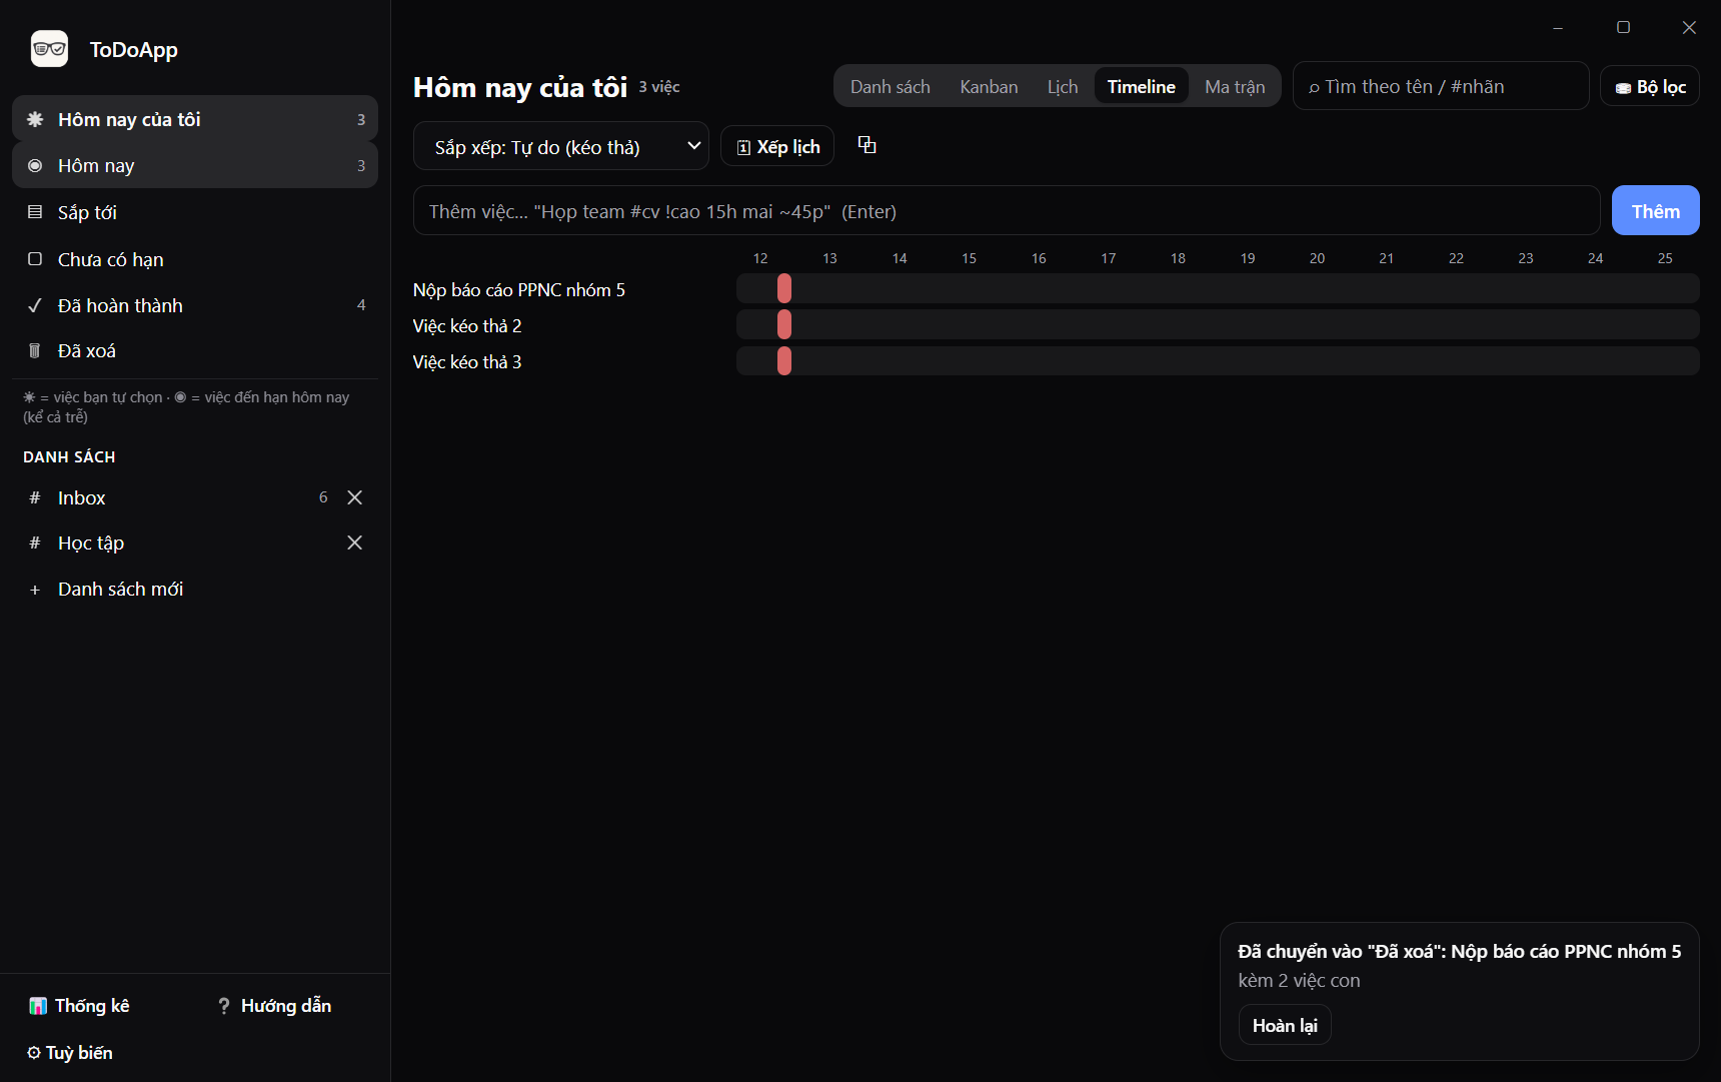
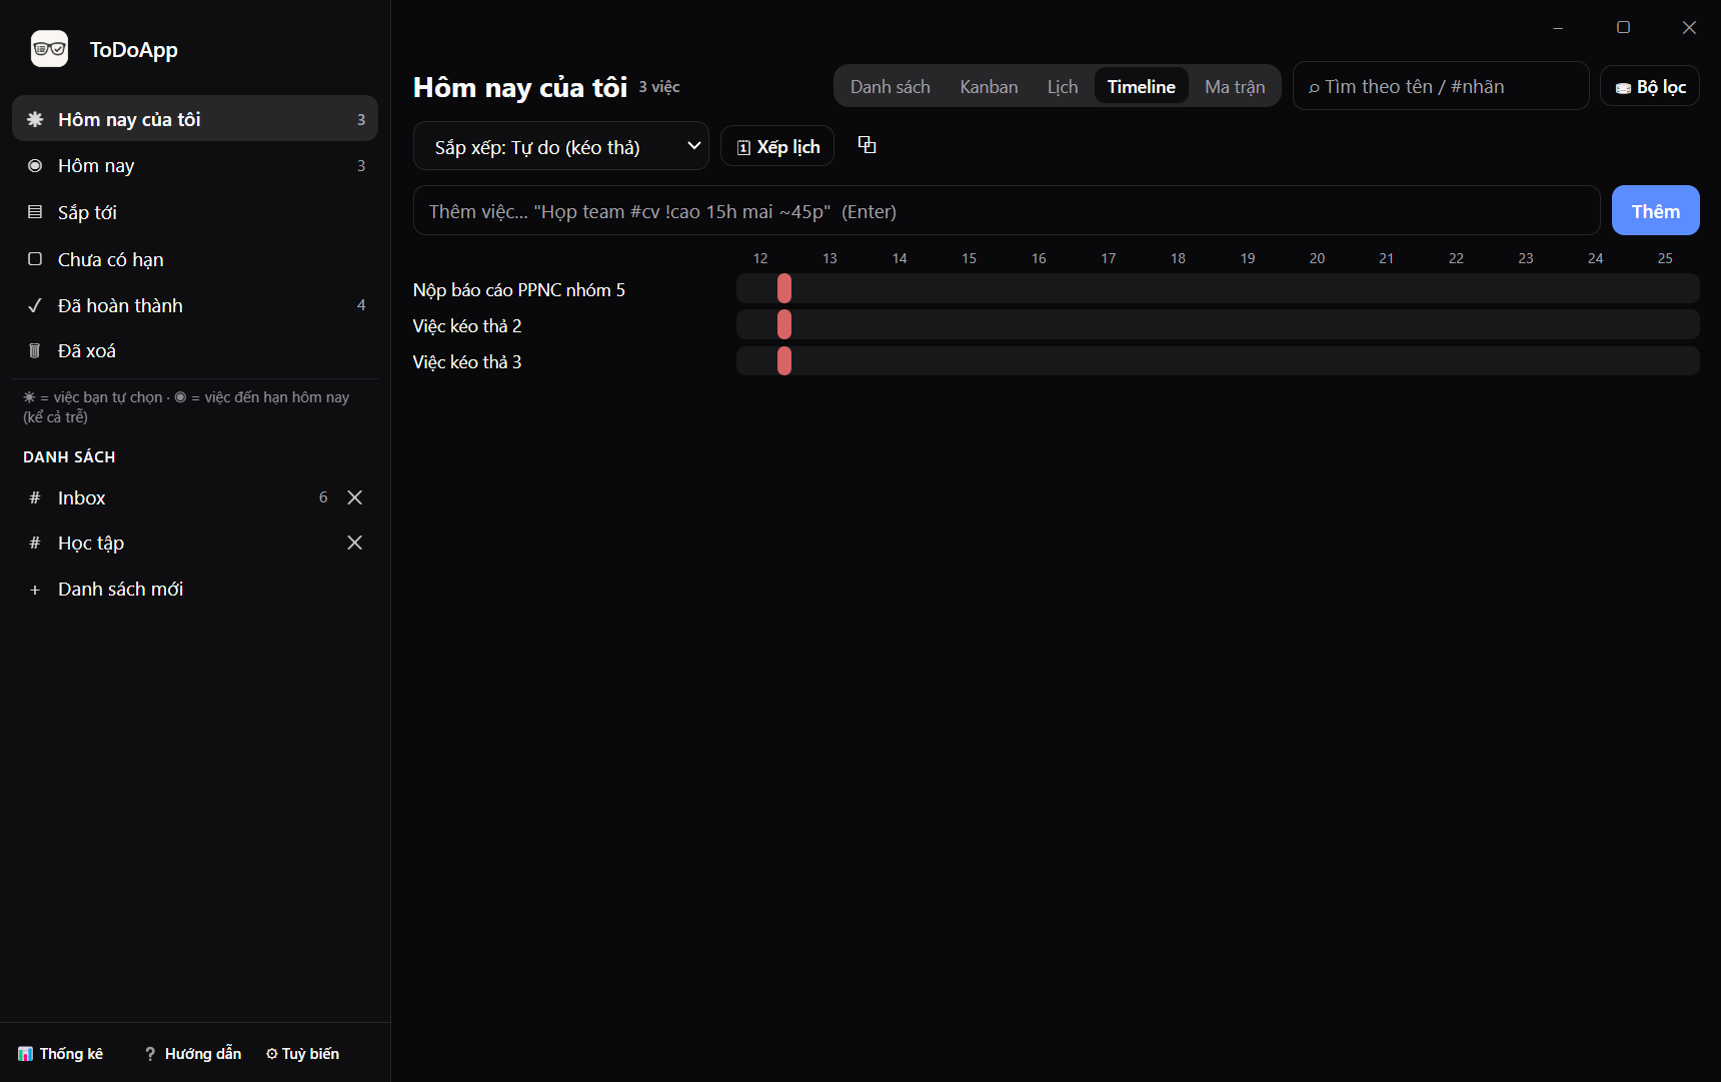
Gop 3 nut chan sidebar vao 1 hang ngang, thiet ke khung bao quanh tac gia/model/AI agent, them probe do that + on dinh hoa probe bo loc

diff --git a/lib/smoke.js b/lib/smoke.js
@@ -203,7 +203,18 @@ module.exports = function smoke() {
       if (!syncMain) errs.push('probe: thêm việc ở mini mà app chính không cập nhật (đồng bộ 1 chiều hỏng)');
       if (!syncMini) errs.push('probe: đổi ở app chính mà mini không cập nhật (đồng bộ chiều còn lại hỏng)');
 
-      // BẢNG LỌC: mở bằng nút -> có đủ ô chọn; chọn nhanh có tác dụng; có chip điều kiện đang bật
+      // BẢNG LỌC: mở bằng nút -> có đủ ô chọn; chọn nhanh có tác dụng; có chip điều kiện đang bật.
+      // Tự dựng dữ liệu cho mình: các probe trước có thể đã để danh sách rỗng -> n0 = 0
+      // thì "lọc nhanh có thu hẹp" không còn ý nghĩa (đây là lỗi của phép thử, không phải của app).
+      await mainWin.webContents.executeJavaScript(`(() => {
+        if (!T.view(db.tasks, ui.view).length) {
+          const base = db.tasks.find((x) => !x.parentId) || db.tasks[0];
+          const nt = { ...base, id: uid(), title: 'Việc cho bộ lọc', parentId: null, done: false, doneAt: null, stage: 'todo', myDay: ymd(new Date()), due: null };
+          db.tasks.push(nt); commit();
+        }
+        ui.view = 'myday'; ui.mode = 'list'; ui.openId = null; ui.q = ''; clearF(); render();
+      })()`);
+      await waitFor(mainWin, `!!document.querySelector('.body .row:not(.sub)')`);
       const filt = await mainWin.webContents.executeJavaScript(`(async () => {
         document.querySelector('.btn-filter').click();
         await new Promise((r) => setTimeout(r, 200));
@@ -703,6 +714,44 @@ module.exports = function smoke() {
       console.log('STATS bars=' + stat);
       await new Promise((r) => setTimeout(r, 250)); await shoot('stats');
       // HƯỚNG DẪN: nút kế bên Thống kê -> hộp thoại có Esc, phím tắt, gõ nhanh và TÊN TÁC GIẢ
+      // CHÂN SIDEBAR: Thống kê / Hướng dẫn / Tuỳ biến phải nằm GỌN trong 1 HÀNG NGANG,
+      // không tràn ra ngoài và không bị cắt chữ (đo thật, không đoán theo font-size)
+      const foot = await mainWin.webContents.executeJavaScript(`(() => {
+        const box = document.querySelector('.side-foot');
+        const btns = [...box.querySelectorAll('.btn')];
+        const b = box.getBoundingClientRect();
+        const rects = btns.map((x) => { const r = x.getBoundingClientRect(); return { t: x.textContent, x: Math.round(r.x), r: Math.round(r.right), y: Math.round(r.y), h: Math.round(r.height), clip: x.scrollWidth > x.clientWidth + 1 }; });
+        return { n: btns.length, rows: new Set(rects.map((r) => r.y)).size, over: rects.filter((r) => r.r > b.right + 1 || r.x < b.left - 1).map((r) => r.t), clipped: rects.filter((r) => r.clip).map((r) => r.t), rects, boxW: Math.round(b.width) };
+      })()`);
+      console.log('SIDE-FOOT ' + JSON.stringify(foot));
+      if (foot.n !== 3) errs.push('probe: chân sidebar thiếu nút (' + JSON.stringify(foot) + ')');
+      if (foot.rows !== 1) errs.push('probe: 3 nút chân sidebar không nằm trên 1 hàng ngang (rows=' + foot.rows + ')');
+      if (foot.over.length) errs.push('probe: nút chân sidebar tràn ra ngoài khung (' + JSON.stringify(foot.over) + ')');
+      if (foot.clipped.length) errs.push('probe: chữ nút chân sidebar bị cắt (' + JSON.stringify(foot.clipped) + ')');
+      // KHUNG TÁC GIẢ: có viền bao quanh + 3 ô (tác giả/model/AI agent)
+      const card = await mainWin.webContents.executeJavaScript(`(() => {
+        ui.modal = 'help'; render();
+        const a = document.querySelector('#helpModal .author');
+        if (!a) return { why: 'chưa có khung tác giả' };
+        const cs = getComputedStyle(a);
+        const items = [...a.querySelectorAll('.a-item')].map((x) => ({ k: x.querySelector('.k').textContent, v: x.querySelector('b').textContent, w: Math.round(x.getBoundingClientRect().width) }));
+        const r = a.getBoundingClientRect();
+        return {
+          items, border: cs.borderTopWidth, bg: cs.backgroundColor,
+          framed: parseFloat(cs.borderTopWidth) > 0 && cs.borderTopStyle !== 'none',
+          oneRow: new Set(items.map((x) => Math.round(x.w))).size === 1,
+          width: Math.round(r.width),
+        };
+      })()`);
+      console.log('AUTHOR-CARD ' + JSON.stringify(card));
+      if (!card.framed) errs.push('probe: khung tác giả không có viền bao quanh (' + JSON.stringify(card) + ')');
+      if (!card.items || card.items.length !== 3) errs.push('probe: khung tác giả không đủ 3 ô (' + JSON.stringify(card) + ')');
+      if (card.items && !card.oneRow) errs.push('probe: 3 ô trong khung tác giả không đều nhau (' + JSON.stringify(card.items) + ')');
+      if (card.items && !card.items.some((x) => x.v === 'Hermes Agent')) errs.push('probe: khung tác giả thiếu công cụ AI agent (' + JSON.stringify(card) + ')');
+      await mainWin.webContents.executeJavaScript(`ui.modal = null; render()`);
+      await new Promise((r) => setTimeout(r, 200));
+      await mainWin.webContents.executeJavaScript(`document.querySelector('#helpBtn').click()`);
+      await new Promise((r) => setTimeout(r, 300));
       const help = await mainWin.webContents.executeJavaScript(`(async () => {
         const wait = (ms) => new Promise((r2) => setTimeout(r2, ms));
         ui.modal = null; render(); await wait(200);

diff --git a/renderer/app.css b/renderer/app.css
@@ -350,14 +350,25 @@ body.mini .kids-tg { width: .72rem; font-size: .6rem; }
 .keylist { display: flex; flex-direction: column; gap: .25rem; }
 .keyrow { display: flex; align-items: center; gap: .35rem; font-size: .8rem; }
 .keycap { font-size: .7rem; padding: .1rem .35rem; border: 1px solid hsl(var(--border)); border-radius: 4px; background: hsl(var(--muted)); }
-/* chân sidebar: nút Thống kê / Hướng dẫn / Tuỳ biến — tự xuống dòng, nút cuối chiếm cả hàng */
-.side-foot { padding: .5rem .55rem; border-top: 1px solid hsl(var(--border)); display: flex; flex-wrap: wrap; gap: .3rem; }
-.side-foot .btn { flex: 1 1 44%; min-width: 0; }
-.side-foot .btn:last-child { flex-basis: 100%; }
+/* chân sidebar: Thống kê / Hướng dẫn / Tuỳ biến nằm GỌN TRONG 1 HÀNG NGANG */
+.side-foot { padding: .45rem .45rem; border-top: 1px solid hsl(var(--border)); display: flex; gap: .25rem; }
+.side-foot .btn {
+  flex: 1 1 0; min-width: 0; padding: 0 .2rem; font-size: .68rem;
+  white-space: nowrap; overflow: hidden; text-overflow: ellipsis;
+}
 /* hộp thoại Hướng dẫn */
 .helplist { display: flex; flex-direction: column; gap: .3rem; font-size: .78rem; line-height: 1.45; }
 .helpitem b { color: hsl(var(--foreground)); }
-.author { font-size: .85rem; display: flex; flex-wrap: wrap; gap: .2rem; margin: -.3rem 0 .2rem; }
+/* khung tác giả: tác giả · model · AI agent, 3 ô đều nhau trong 1 khung có viền */
+.author {
+  display: flex; gap: .4rem; margin: -.25rem 0 .1rem; padding: .5rem .55rem;
+  border: 1px solid hsl(var(--border)); border-radius: calc(var(--radius) - 4px);
+  background: hsl(var(--muted) / .45);
+}
+.author .a-item { flex: 1 1 0; min-width: 0; display: flex; flex-direction: column; gap: .1rem; }
+.author .a-item .k { font-size: .62rem; text-transform: uppercase; letter-spacing: .05em; color: hsl(var(--muted-foreground)); }
+.author .a-item b { font-size: .82rem; font-weight: 700; color: hsl(var(--foreground)); overflow: hidden; text-overflow: ellipsis; }
+.author .a-item.agent b { color: hsl(var(--p1)); }   /* công cụ AI: tô màu cho dễ nhận */
 .cal-nav { height: 1.9rem; }
 .cal-title { min-width: 8.6rem; text-align: center; }
 .q.over { border-color: hsl(var(--ring)); border-style: dashed; }

diff --git a/renderer/settings.js b/renderer/settings.js
@@ -206,10 +206,11 @@ function helpModal() {
     h('div', { class: 'card modal', id: 'helpModal' },
       h('div', { class: 'modal-head' }, h('h3', null, 'Hướng dẫn & phím tắt'), h('span', { class: 'grow' }),
         h('button', { class: 'btn ghost icon sm', id: 'helpClose', title: 'Đóng (Esc)', onclick: () => { ui.modal = null; render(); } }, '✕')),
-      // Tác giả để NGAY ĐẦU hộp thoại: nằm cuối thì phải cuộn mới thấy
+      // Khung tác giả: tác giả · model · AI agent — 3 ô đều nhau, có viền bao quanh
       h('div', { class: 'author' },
-        h('span', null, 'Tác giả: ', h('b', null, AUTHOR.name)),
-        h('span', { class: 'muted' }, ' · model ', h('b', null, AUTHOR.model), ' + AI agent ', h('b', null, AUTHOR.agent))),
+        h('div', { class: 'a-item' }, h('span', { class: 'k' }, 'Tác giả'), h('b', null, AUTHOR.name)),
+        h('div', { class: 'a-item' }, h('span', { class: 'k' }, 'Model'), h('b', null, AUTHOR.model)),
+        h('div', { class: 'a-item agent' }, h('span', { class: 'k' }, 'AI agent'), h('b', null, AUTHOR.agent))),
       h('div', { class: 'sep' }),
 
       h('div', { class: 'lbl' }, 'Phím tắt TRONG app (khi app đang mở)'),
